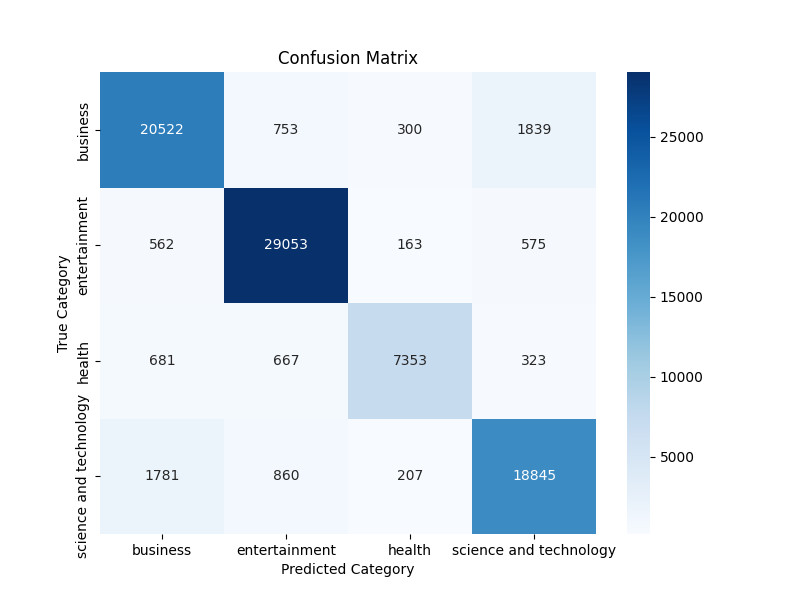
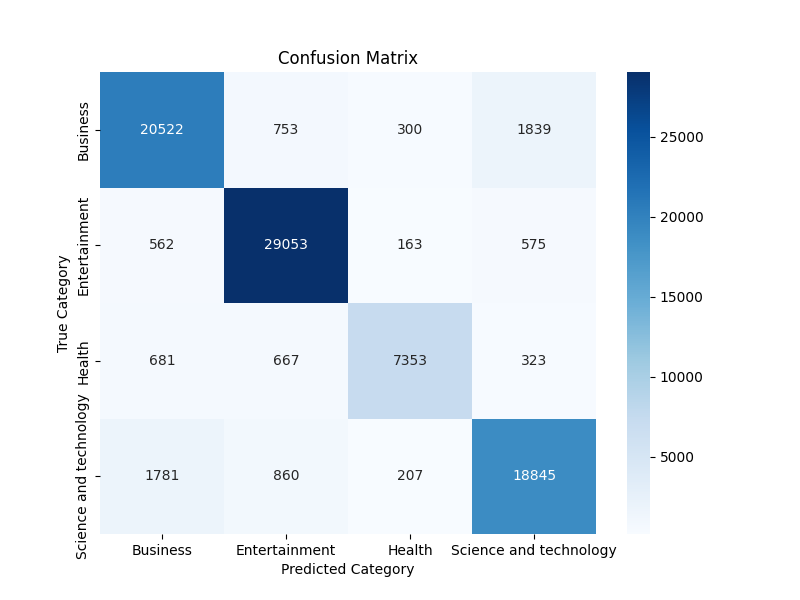
Add compare between 2 models

diff --git a/main.py b/main.py
@@ -3,9 +3,10 @@ import pandas as pd
 import json
 import matplotlib.pyplot as plt
 import matplotlib.image as mpimg
+import seaborn as sns
 
-# ==================== Load Naive Bayes Model ====================
-# Load Naive Bayes model and vectorizer
+# ==================== Tải mô hình Naive Bayes ====================
+# Tải mô hình Naive Bayes và vectorizer
 try:
     nb_model = joblib.load("models/NaiveBayes/naive_bayes_model.joblib")
     nb_vectorizer = joblib.load("models/NaiveBayes/nvb_vectorizer.joblib")
@@ -13,14 +14,14 @@ try:
 except FileNotFoundError as e:
     print(f"Error loading Naive Bayes model/vectorizer: {e}")
 
-# Load Naive Bayes metrics
+# Tải các chỉ số mô hình Naive Bayes
 try:
     metrics_df = pd.read_csv("models/NaiveBayes/nvb_metrics.csv")
     print("Naive Bayes Model Metrics:\n", metrics_df)
 except FileNotFoundError:
     print("Naive Bayes metrics file not found.")
 
-# Load the classification report for Naive Bayes
+# Tải báo cáo phân loại của Naive Bayes
 try:
     with open("models/NaiveBayes/nvb_classi_report.json", "r") as f:
         nb_report = json.load(f)
@@ -29,16 +30,8 @@ try:
 except FileNotFoundError:
     print("Naive Bayes classification report file not found.")
 
-# Load the training time for Naive Bayes
-try:
-    with open("models/NaiveBayes/nvb_train_time.txt", "r") as f:
-        nb_training_time = f.read()
-    print("Naive Bayes Training Time:\n", nb_training_time)
-except FileNotFoundError:
-    print("Naive Bayes training time file not found.")
 
-
-# Display Naive Bayes confusion matrix and other plots
+# Hiển thị ma trận nhầm lẫn Naive Bayes và các biểu đồ khác
 def display_image(file_path, title):
     try:
         img = mpimg.imread(file_path)
@@ -58,8 +51,8 @@ display_image(
     "plots/NaiveBayes/performance_metrics.png", "Naive Bayes Performance Metrics"
 )
 
-# ==================== Load SVM Model ====================
-# Load SVM model and vectorizer
+# ==================== Tải mô hình SVM ====================
+# Tải mô hình SVM và vectorizer
 try:
     svm_model = joblib.load("models/SVM/svm_model.joblib")
     svm_vectorizer = joblib.load("models/SVM/tfidf_title.joblib")
@@ -67,7 +60,7 @@ try:
 except FileNotFoundError as e:
     print(f"Error loading SVM model/vectorizer: {e}")
 
-# Example: using the loaded SVM model for predictions
+# Ví dụ: sử dụng mô hình SVM đã tải để dự đoán
 sample_texts = ["This is a test news title", "New advancements in AI technology"]
 try:
     sample_features = svm_vectorizer.transform(sample_texts)
@@ -77,15 +70,14 @@ try:
 except Exception as e:
     print(f"Error during SVM prediction: {e}")
 
-# Load SVM metrics
+# Tải các chỉ số mô hình SVM
 try:
-    with open("models/SVM/metrics.txt", "r") as f:
-        svm_metrics = f.read()
-    print("SVM Model Metrics:\n", svm_metrics)
+    metrics_svm = pd.read_csv("models/SVM/metrics.csv")
+    print("SVM Model Metrics:\n", metrics_svm)
 except FileNotFoundError:
-    print("SVM metrics file not found.")
+    print("Naive Bayes metrics file not found.")
 
-# Load the classification report for SVM
+# Tải báo cáo phân loại của SVM
 try:
     with open("models/SVM/classification_report.json", "r") as f:
         svm_report = json.load(f)
@@ -94,6 +86,27 @@ try:
 except (FileNotFoundError, json.JSONDecodeError) as e:
     print(f"Error loading SVM classification report: {e}")
 
-# Display SVM confusion matrix and other plots
+# Hiển thị ma trận nhầm lẫn của SVM và các biểu đồ khác
 display_image("plots/SVM/confusion_Matrix.png", "SVM Confusion Matrix")
 display_image("plots/SVM/metrics_comparison.png", "SVM Performance Metrics")
+
+# So sánh hiệu suất của Naive Bayes và SVM
+metrics_names = [
+    "Accuracy",
+    "Training Time (seconds)",
+]
+comparison_data = {
+    "Metrics": metrics_names,
+    "Naive Bayes": [
+        metrics_df["Accuracy"][0],
+        metrics_df["Training Time (seconds)"][0],
+    ],
+    "SVM": [
+        metrics_svm["Accuracy"][0],
+        metrics_svm["Training time"][0],
+    ],
+}
+df_comparison = pd.DataFrame(comparison_data)
+print("Metrics Comparison between Naive Bayes and SVM:")
+print(df_comparison)
+display_image("plots/comparison_metrics.png", "Compare Models")

diff --git a/src/SVM.py b/src/SVM.py
@@ -54,10 +54,14 @@ label_encoder = LabelEncoder()
 df["CATEGORY"] = label_encoder.fit_transform(df["CATEGORY"])
 X = df[["TITLE", "HOSTNAME", "PUBLISHER"]]
 y = df["CATEGORY"]
-tfidf_title = TfidfVectorizer(max_features=5000, ngram_range=(1, 2), max_df=0.85, min_df=5)
+tfidf_title = TfidfVectorizer(
+    max_features=5000, ngram_range=(1, 2), max_df=0.85, min_df=5
+)
 X_title = tfidf_title.fit_transform(X["TITLE"])
 X_combined = hstack([X_title])
-X_train, X_test, y_train, y_test = train_test_split(X_combined, y, test_size=0.2, random_state=42)
+X_train, X_test, y_train, y_test = train_test_split(
+    X_combined, y, test_size=0.2, random_state=42
+)
 C = 1.0
 svm_model = LinearSVC(C=C, max_iter=1000)
 start_time = time.time()
@@ -82,7 +86,9 @@ print("\nClassification Report:\n", json.dumps(class_report_dict, indent=4))
 os.makedirs("models/SVM", exist_ok=True)
 
 
-def save_metrics_and_report_json(metrics, report_dict, metrics_filename, report_filename):
+def save_metrics_and_report_json(
+    metrics, report_dict, metrics_filename, report_filename
+):
     metrics_filepath = os.path.join("models/SVM", metrics_filename)
     report_filepath = os.path.join("models/SVM", report_filename)
     with open(metrics_filepath, "w") as f:
@@ -107,11 +113,18 @@ metrics = {
     "Recall": recall,
     "Training time": training_time,
 }
-save_metrics_and_report_json(metrics, class_report_dict, "metrics.json", "classification_report.json")
+save_metrics_and_report_json(
+    metrics, class_report_dict, "metrics.json", "classification_report.json"
+)
 save_metrics_as_csv(metrics, "metrics.csv")
 
 
-def save_model(model, vectorizer, model_filename="svm_model.joblib", vectorizer_filename="tfidf_title.joblib"):
+def save_model(
+    model,
+    vectorizer,
+    model_filename="svm_model.joblib",
+    vectorizer_filename="tfidf_title.joblib",
+):
     model_filepath = os.path.join("models/SVM", model_filename)
     vectorizer_filepath = os.path.join("models/SVM", vectorizer_filename)
     joblib.dump(model, model_filepath)

diff --git a/src/naive-bayes.py b/src/naive-bayes.py
@@ -34,10 +34,10 @@ def remove_special_chars(text):
 data["TITLE"] = data["TITLE"].apply(remove_special_chars)
 data["CATEGORY"] = data["CATEGORY"].map(
     {
-        "b": "business",
-        "t": "science and technology",
-        "e": "entertainment",
-        "m": "health",
+        "b": "Business",
+        "t": "Science and technology",
+        "e": "Entertainment",
+        "m": "Health",
     }
 )
 
@@ -112,6 +112,7 @@ metrics_df = pd.DataFrame(
         "Precision (Weighted)": [precision],
         "Recall (Weighted)": [recall],
         "F1-Score (Weighted)": [f1],
+        "Training Time (seconds)": [execution_time],
     }
 )
 metrics_df.to_csv("models/NaiveBayes/nvb_metrics.csv", index=False)
@@ -119,8 +120,6 @@ metrics_df.to_csv("models/NaiveBayes/nvb_metrics.csv", index=False)
 with open("models/NaiveBayes/nvb_classi_report.json", "w") as f:
     json.dump(classification_report(y_test, y_pred, output_dict=True), f)
 
-with open("models/NaiveBayes/nvb_train_time.txt", "w") as f:
-    f.write(f"Total Execution Time: {execution_time:.4f} seconds")
 
 plt.figure(figsize=(8, 6))
 sns.heatmap(
@@ -143,8 +142,10 @@ plt.xlabel("Category")
 plt.ylabel("Count")
 plt.savefig("plots/NaiveBayes/category_distribution.png")
 
+metrics_df_filtered = metrics_df.drop(columns=["Training Time (seconds)"])
+
 plt.figure(figsize=(12, 8))
-metrics_df.plot(kind="bar", figsize=(10, 6))
+metrics_df_filtered.plot(kind="bar", figsize=(10, 6))
 plt.title("Performance Metrics per Category")
 plt.xlabel("Category")
 plt.ylabel("Score")

diff --git a/src/compare-model.py b/src/compare-model.py
@@ -1,0 +1,49 @@
+import json
+import matplotlib.pyplot as plt
+import pandas as pd
+
+# Đường dẫn tới các file metrics của hai mô hình
+naive_bayes_metrics_path = "models/NaiveBayes/nvb_metrics.csv"
+svm_metrics_path = "models/SVM/metrics.csv"
+
+# Load metrics từ các file CSV
+naive_bayes_metrics = pd.read_csv(naive_bayes_metrics_path)
+svm_metrics = pd.read_csv(svm_metrics_path)
+
+# Chỉ lấy các giá trị của Accuracy và Training Time
+metrics_names = [
+    "Accuracy",
+    "Training Time (seconds)",
+]
+
+# Tạo một DataFrame để chứa dữ liệu so sánh
+comparison_data = {
+    "Metrics": metrics_names,
+    "Naive Bayes": [
+        naive_bayes_metrics["Accuracy"][0],
+        naive_bayes_metrics["Training Time (seconds)"][0],
+    ],
+    "SVM": [
+        svm_metrics["Accuracy"][0],
+        svm_metrics["Training time"][0],
+    ],
+}
+
+df_comparison = pd.DataFrame(comparison_data)
+
+# In ra giá trị của các metrics
+print("Metrics Comparison between Naive Bayes and SVM:")
+print(df_comparison)
+
+# Vẽ biểu đồ so sánh
+plt.figure(figsize=(10, 6))
+df_comparison.set_index("Metrics").plot(
+    kind="bar", figsize=(10, 6), color=["#1f77b4", "#ff7f0e"]
+)
+plt.title("Performance Metrics Comparison between Naive Bayes and SVM")
+plt.ylabel("Score")
+plt.xlabel("Metrics")
+plt.xticks(rotation=0)
+plt.tight_layout()
+plt.savefig("plots/comparison_metrics.png")
+plt.show()

diff --git a/src/streamlit-naiveBayes.py b/src/streamlit-naiveBayes.py
@@ -30,7 +30,7 @@ st.markdown(
     unsafe_allow_html=True,
 )
 
-dtsName = "../uci-news-aggregator.csv"
+dtsName = "../data/uci-news-aggregator.csv"
 data = pd.read_csv(dtsName)
 
 data = data.dropna(subset=["TITLE", "CATEGORY"])
@@ -126,11 +126,9 @@ for index, row in filtered_data_limited.iterrows():
     else:
         st.write(f"- {title}")
 
-# Load the pre-trained model and vectorizer
 vectorizer = joblib.load("../models/NaiveBayes/nvb_vectorizer.joblib")
 model = joblib.load("../models/NaiveBayes/naive_bayes_model.joblib")
 
-# Classification section
 st.subheader("Classification of news")
 sample_titles = st.text_area(
     "Enter the titles of news articles (one per line):",
